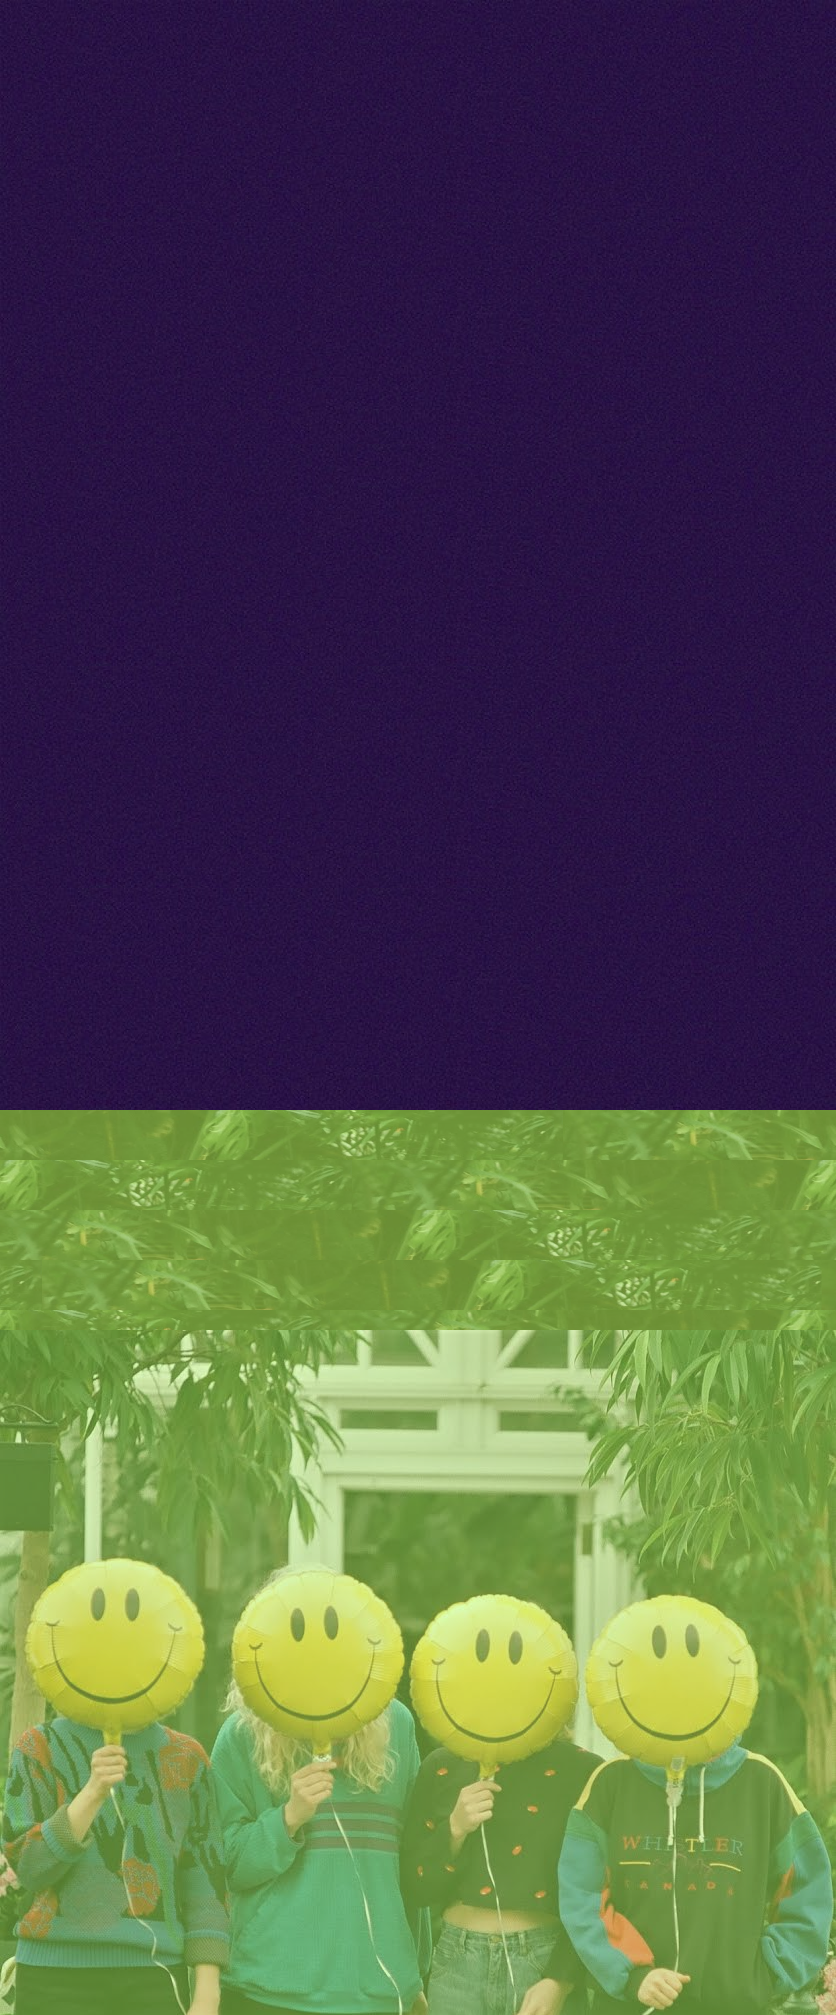
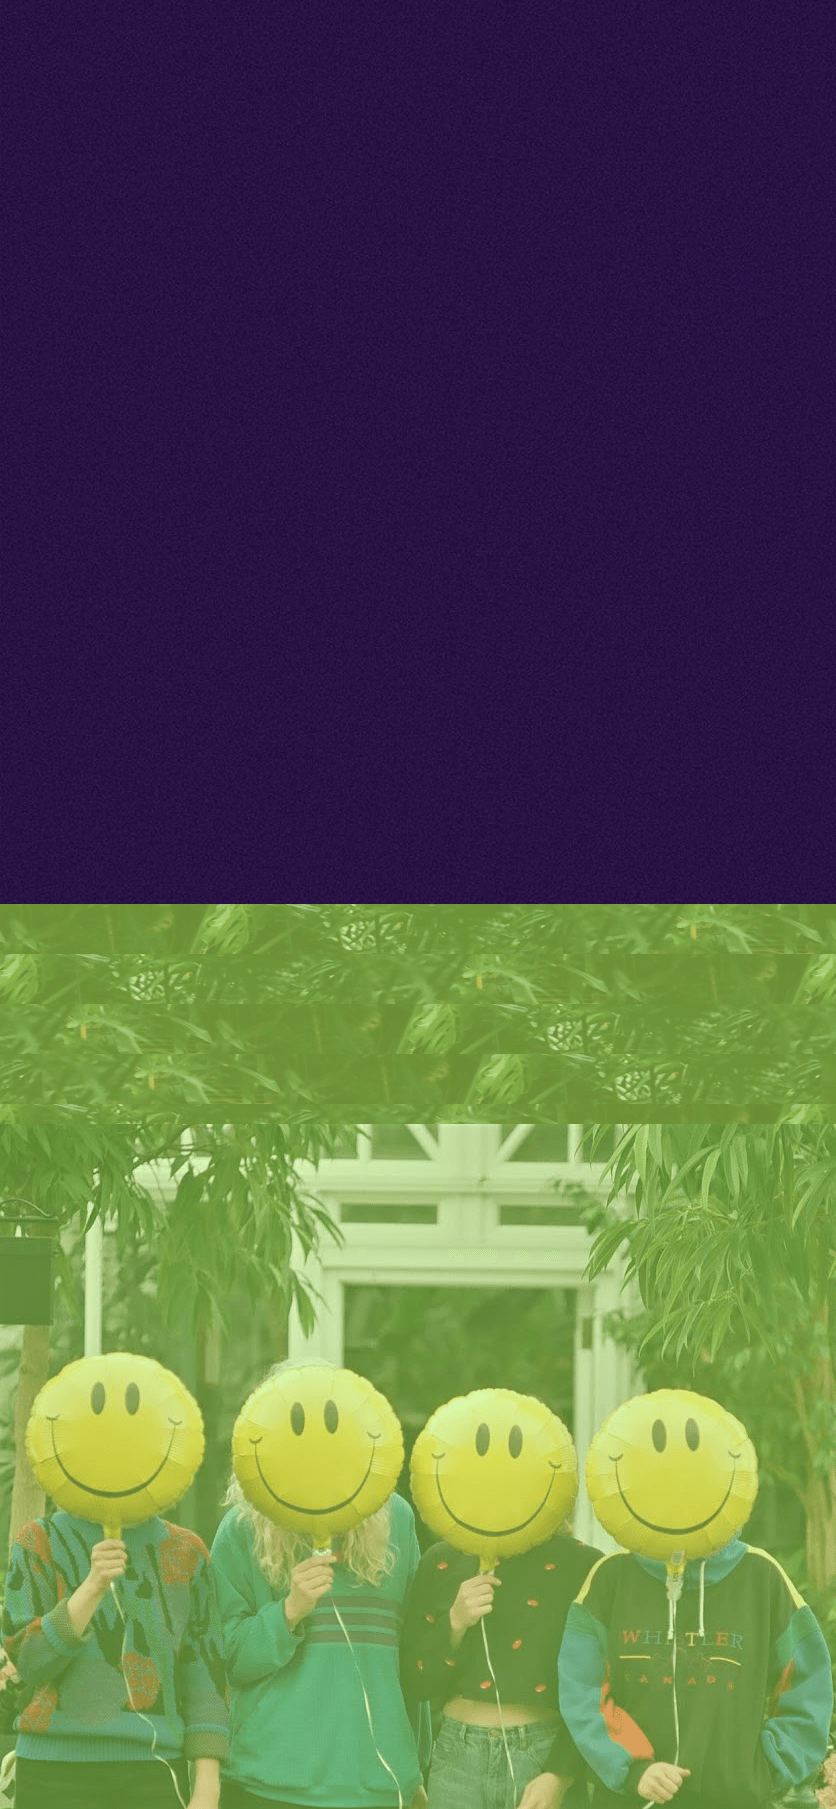
home page big screen style

Changed region(s): [[0.0, 0.4953, 1.0, 0.9906], [0.4354, 0.9287, 0.4665, 0.9906]]

diff --git a/client/src/components/Home/homeStyle.css b/client/src/components/Home/homeStyle.css
@@ -1,3 +1,15 @@
+#home {
+    background-image: url(../../backgrounds/home_mobile_longer.png);
+    background-position: 50% 65%;
+    background-repeat: no-repeat;
+    background-size: cover;
+    display: flex;
+    flex-direction: column;
+    height: 100vh;
+    justify-content: center;
+    position: relative;
+}
+
 .home-title {
     position: absolute;
     top: 0;
@@ -8,18 +20,22 @@
 h1 {
     color: rgba(255, 255, 255, 0.2);
     font-size: 3.3rem;
-    /* -webkit-text-fill-color: transparent;
-    -webkit-text-stroke: .2px rgba(252, 248, 140, 0.5); */
 }
 
 .home-links {
     color: rgba(255, 255, 255, 0.9);
     padding-top: 3.3rem;
+    position: absolute;
+    top: 6.5rem;
     text-align: left;
 }
 
 .home-msg-container {
     overflow: hidden;
+    padding-top: 3.3rem;
+    position: absolute;
+    top: 0;
+    text-align: left;
 }
 
 .home-msg {
@@ -30,7 +46,6 @@ h1 {
 }
 
 .out-now {
-    margin-bottom: 1.5rem;
     margin-top: 2.8rem;
 }
 
@@ -44,29 +59,28 @@ h1 {
     z-index: 1;
 }
 
+.patreon-link-big {
+    display: none;
+}
+
 .buy-listen p {
     color: rgba(255, 255, 255, 0.8);
 }
 
 .cover {
-    position: relative;
-    bottom: 11%;
     text-align: center;
     width: 100%;
 }
 
 .album-cover {
     margin: 0 auto;
-    margin-top: 5px;
     width: 90%;
 }
 
-/* .buy {
-    cursor: pointer;
-    position: relative;
-    bottom: 17%;
-    margin: 0 auto;
-    width: fit-content;
+.patreon-link p {
+    background-color: rgba(146, 187, 79, 0.6);
+    color: rgba(46, 12, 70, 1);
+    font-weight: bold;
 }
 
 .barcode {
@@ -78,31 +92,8 @@ h1 {
     font-size: 1.7rem;
     font-style: normal;
     padding: 1px 12px;
-} */
+} 
 
-.patreon-link {
-    position: absolute;
-    right: 0;
-    bottom: -5%;
-}
-
-.patreon-link p {
-    background-color: rgba(146, 187, 79, 0.6);
-    color: rgba(46, 12, 70, 1);
-    font-weight: bold;
-}
-
-/* @media screen and (min-width: 500px) {
-    .barcode {
-        padding: 2px 20px;
-    }
-}
-@media screen and (min-width: 700px) {
-    .barcode {
-        font-size: 2.5rem;
-        padding: 3px 30px;
-    }
-} */
 
 @keyframes slidein {
     from { 
@@ -110,5 +101,55 @@ h1 {
     }
     to { 
         transform: translateX(0);
+    }
+}
+
+@media screen and (min-width: 800px) {
+    #home {
+        background-image: url(../../backgrounds/big_purp1.png), url(../../backgrounds/home_mobile_longer.png);
+        background-position: right 50% bottom 60vh, 60% 80%;
+    }
+    h1 {
+        font-size: 5.8rem;
+    }
+    .home-msg-container {
+        padding-top: 6.1rem;
+    }
+    .home-links {
+        display: flex;
+        justify-content: space-between;
+        padding-top: 0;
+        top: 40vh;
+        width: 100%;
+    }
+    .home-links-pod {
+        display: flex;
+        justify-content: space-evenly;
+        width: calc(.5 * 100vw - 250px);
+    }
+
+    .patreon-link-big {
+        display: flex;
+        justify-content: center;
+        width: calc(.5 * 100vw - 250px);
+    }
+    .buy-listen {
+        margin-top: 5px;
+        font-size: 1.1rem;
+    }
+
+    .buy-listen p {
+        color: white;
+    }
+
+    .album-cover {
+        padding-bottom: 10%;
+        width: 500px;
+    }
+    .patreon-link {
+        display: none;
+    }
+    .out-now {
+        margin-top: 5.8rem;
     }
 }

diff --git a/client/src/components/Home/index.js b/client/src/components/Home/index.js
@@ -8,31 +8,39 @@ export const Home = () => {
             <div className='home-title'>
                 <h1>CHASTITY<br/> BELT</h1>
             </div>
+            <div className='home-msg-container'>
+                <p className='home-msg'>self-titled album</p>
+                <p className='out-now home-msg'>out now</p>
+            </div>
             <div className='home-links'>
-                <div className='home-msg-container'>
-                    <p className='home-msg'>self-titled album</p>
-                    <p className='out-now home-msg'>out now</p>
+                <div className='home-links-pod'>
+                    <div className='buy-listen'>
+                        <a href='https://www.hardlyart.com/releases/chastity_belt/chastity_belt' target='_blank' rel='noopener  noreferrer'>
+                            <p>BUY</p>
+                        </a>
+                    </div>
+                    <div className='buy-listen'>
+                        <a href='https://ffm.to/chazzy' target='_blank' rel="noopener noreferrer">
+                            <p>LISTEN</p>
+                        </a>
+                    </div>
                 </div>
+                <div className='patreon-link-big'>
                 <div className='buy-listen'>
-                    <a href='https://www.hardlyart.com/releases/chastity_belt/chastity_belt' target='_blank' rel='noopener  noreferrer'>
-                        <p>BUY</p>
-                    </a>
-                </div>
-                <div className='buy-listen'>
-                    <a href='https://ffm.to/chazzy' target='_blank' rel="noopener noreferrer">
-                        <p>LISTEN</p>
-                    </a>
+                        <a href='https://www.patreon.com/chastitybelt' target='_blank' rel="noopener noreferrer">
+                            <p>JOIN OUR PATREON</p>
+                        </a>
+                    </div>
                 </div>
             </div>
-            
             
             <div className='cover'>
                 <img className='album-cover' src='images/album_cover_2.png' alt='album cover' />
                 <GoTo 
-                link='https://www.patreon.com/chastitybelt'
-                name='patreon'
-                text='JOIN OUR PATREON'
-                external='true'
+                    link='https://www.patreon.com/chastitybelt'
+                    name='patreon'
+                    text='JOIN OUR PATREON'
+                    external='true'
                 />
             </div>
         </section>

diff --git a/client/src/App.css b/client/src/App.css
@@ -86,17 +86,6 @@ h2 {
     z-index: 3;
 }
 
-#home {
-    background-image: url(./backgrounds/home_mobile_longer.png);
-    background-position: bottom;
-    background-size: cover;
-    /* display: flex;
-    flex-direction: column; */
-    height: 100vh;
-    /* justify-content: center; */
-    position: relative;
-}
-
 /* #merch {
     /* border: 1px solid white; */
     /* background-image: url(./backgrounds/leaves.png);
